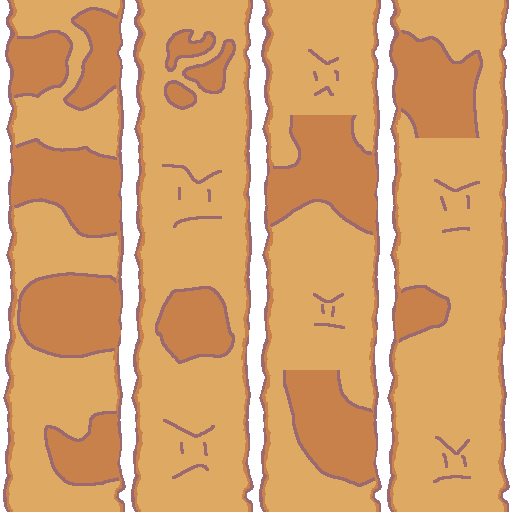
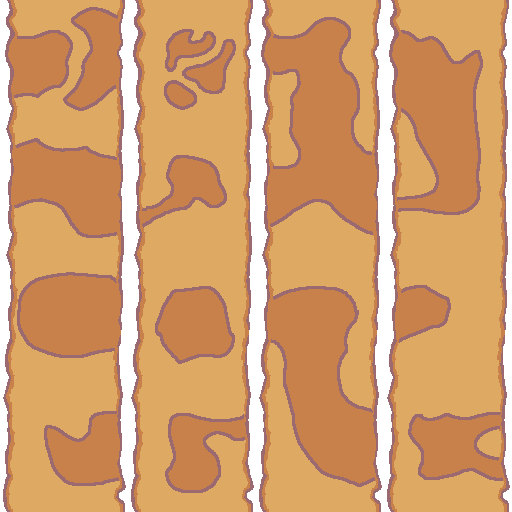
new map images

diff --git a/CC24/src/main.ts b/CC24/src/main.ts
@@ -193,13 +193,15 @@ class BoardState {
   }
 
   errorAtHor(col: number, bottom_row: number): boolean {
-    return this.edgeAt(new Vec2(col, mod(bottom_row - 1, 4)), 'down') !==
-      this.edgeAt(new Vec2(col, mod(bottom_row, 4)), 'up');
+    const e1 = this.edgeAt(new Vec2(col, mod(bottom_row - 1, 4)), 'down');
+    const e2 = this.edgeAt(new Vec2(col, mod(bottom_row, 4)), 'up');
+    return (e1 !== e2) || (e1 === 'U') || (e2 === 'U');
   }
 
   errorAtVer(row: number, right_col: number): boolean {
-    return this.edgeAt(new Vec2(mod(right_col - 1, 4), row), 'right') !==
-      this.edgeAt(new Vec2(mod(right_col, 4), row), 'left');
+    const e1 = this.edgeAt(new Vec2(mod(right_col - 1, 4), row), 'right');
+    const e2 = this.edgeAt(new Vec2(mod(right_col, 4), row), 'left');
+    return (e1 !== e2) || (e1 === 'U') || (e2 === 'U');
   }
 
   edgeAt(pos: Vec2, dir: Direction): EdgeType {
@@ -215,16 +217,16 @@ class BoardState {
   static startingEdgeAt(pos: Vec2, dir: Direction, map: 'rows' | 'cols'): EdgeType {
     if (map === 'rows') {
       const UP = Grid2D.fromAscii(`
-      0000
+      000U
       0077
-      0000
-      0000
+      0U0U
+      U0U0
     `);
       const DOWN = Grid2D.fromAscii(`
       0090
       0000
-      0030
-      0000
+      0U3U
+      U0U0
     `);
       const RIGHT = Grid2D.fromAscii(`
       0010
@@ -262,11 +264,11 @@ class BoardState {
       A000
       B0B0
       Y000
-      Y0Y0
+      YUYU
     `);
       const LEFT = Grid2D.fromAscii(`
-      B001
-      A0B0
+      B0U1
+      AUB0
       0004
       0000
     `);
@@ -371,10 +373,10 @@ class BoardState {
   }
 }
 
-type EdgeType = '0' | 'A' | 'B' | 'Y' | '9' | '3' | '4' | '7' | '1';
+type EdgeType = '0' | 'A' | 'B' | 'Y' | '9' | '3' | '4' | '7' | '1' | 'U';
 
 function edgeFromString(c: string): EdgeType {
-  if ('0ABY93471'.includes(c)) {
+  if ('0ABY93471U'.includes(c)) {
     // @ts-expect-error we just checked
     return c;
   }
